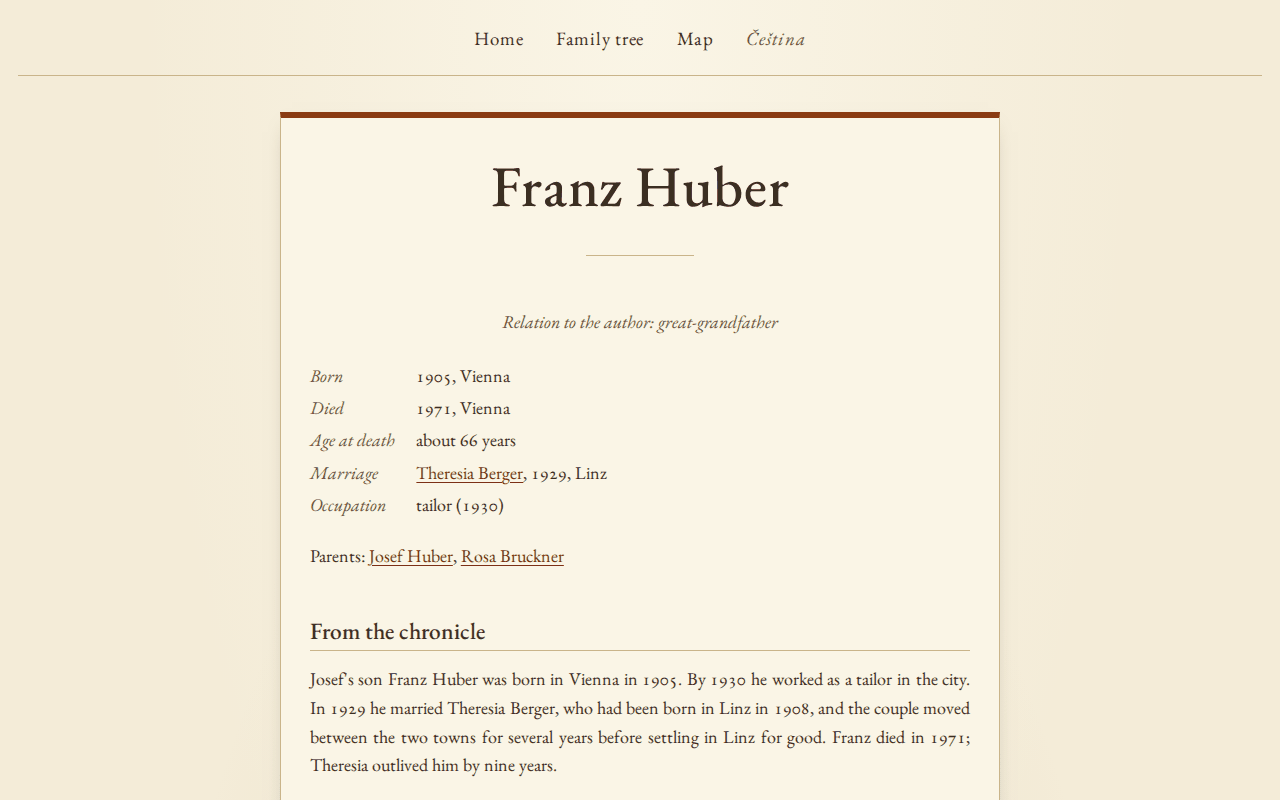
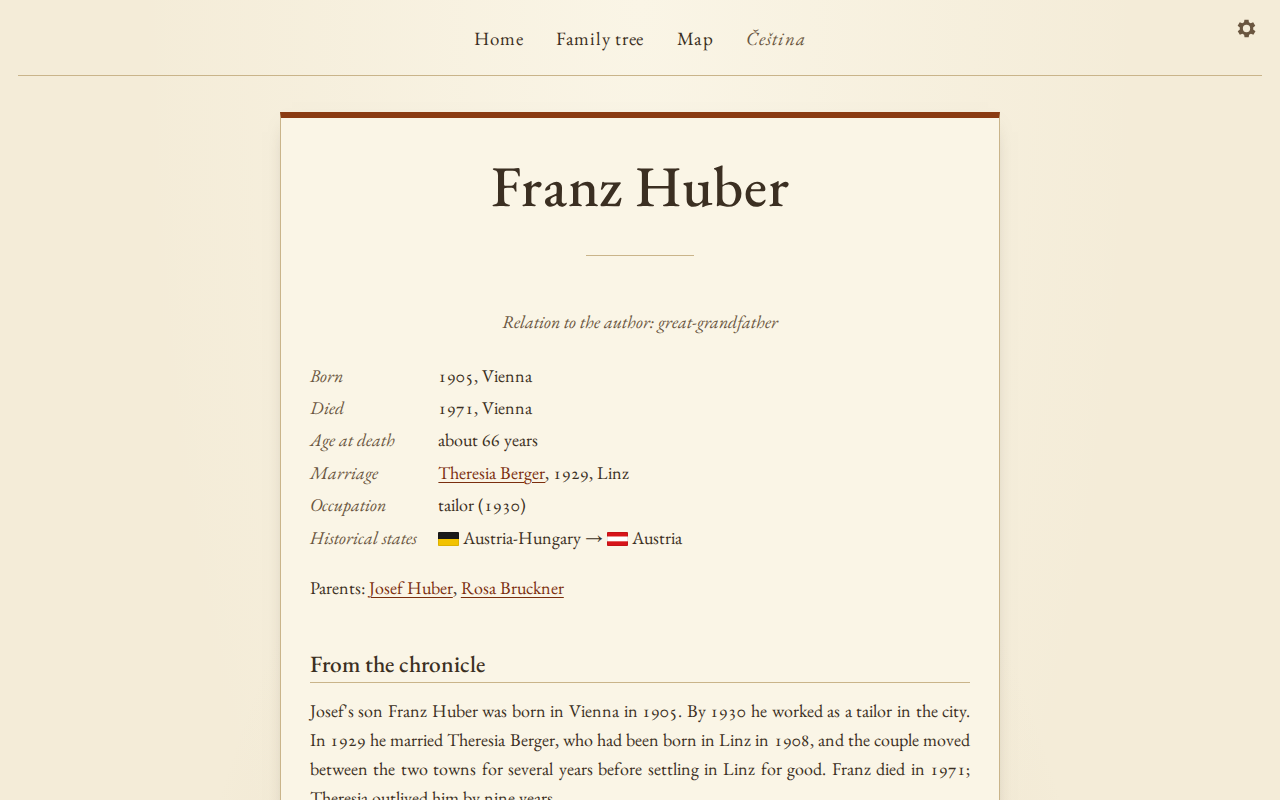
README: themes, settings panel, colour modes, historical states; new screenshots
Regenerated tree, fan, map, chronicle and person screenshots from the example
site and added Night, Atlas, settings panel and fan-by-country screenshots.

Changed region(s): [[0.2188, 0.7812, 0.7812, 1.0], [0.25, 0.4688, 0.5312, 0.75], [0.9688, 0.0312, 1.0, 0.0625]]

diff --git a/README.md b/README.md
@@ -9,6 +9,12 @@ when something leaks.
 The site is plain HTML, JSON and a little JavaScript. There is no server, no database and no
 tracking, so you can host it anywhere that serves files.
 
+Three looks (Chronicle, Night and Atlas) and the colours of the tree are chosen in a settings panel (the
+gear in the header). The tree and the fan chart can colour people by branch, by the country they were
+born in (with small flags of the historical states), by birth period or by whether a document backs
+them; the tree also marks the path from a selected person to the start, labels the generations with
+their birth years and shows a minimap when it does not fit.
+
 | Tree | Fan chart |
 |---|---|
 | ![Family tree](docs/screenshots/tree.png) | ![Ancestor fan chart](docs/screenshots/fan.png) |
@@ -16,6 +22,10 @@ tracking, so you can host it anywhere that serves files.
 | ![Animated migration map](docs/screenshots/map.png) | ![Chronicle page](docs/screenshots/chronicle.png) |
 | **Person page** | **A page of the PDF book** |
 | ![Person page](docs/screenshots/person.png) | ![Book page](docs/screenshots/book-page.png) |
+| **Night theme, tree coloured by birth period** | **Atlas theme, the whole map** |
+| ![Tree in the Night theme](docs/screenshots/tree-night.png) | ![Map in the Atlas theme](docs/screenshots/map-atlas.png) |
+| **Settings panel** | **Fan chart coloured by country of birth, with flags** |
+| ![Settings panel](docs/screenshots/settings.png) | ![Fan chart coloured by country of birth](docs/screenshots/fan-states.png) |
 
 All screenshots come from `example/`, an invented family (the Hubers) that ships with the repo.
 
@@ -74,7 +84,8 @@ Copy `example/` and replace its files:
 |---|---|
 | `family.ged` | your GEDCOM export (UTF-8, UTF-8 or UTF-16 with BOM, or a `1 CHAR ANSI`/`ASCII` file as Windows-1252; CRLF, `CONC`/`CONT`, any ID style, unknown tags are fine). ANSEL files are refused with a message to convert them to UTF-8 first. |
 | `site.json` | the configuration, see below |
-| `places.json` | `{town: {coords: [lat, lon], country: {lang: name}, aliases: [...]}}`; a GEDCOM place not listed here is just left off the map |
+| `places.json` | `{town: {coords: [lat, lon], country: {lang: name}, aliases: [...], region: "..."}}` (`region` is optional, see "Historical states"); a GEDCOM place not listed here is just left off the map |
+| `states.json` | optional historical states and their flags, see "Historical states" |
 | `events.json` | optional hand-written events (moves, war, transports) that the GEDCOM does not hold; each `description` needs a text for every language in `languages` |
 | `documents.json` | optional list of scans and what they prove; may live in a subfolder, its paths are still relative to `site.json` |
 | `basemap.geojson` | optional map background, see "Basemap" |
@@ -87,11 +98,11 @@ All paths resolve against the folder of `site.json`, so you can run the build fr
 | key | meaning |
 |---|---|
 | `root` | GEDCOM id (`I1` or `@I1@`; the same goes for `roots`, `living_extra`, `deceased_extra`, `exclude` and the keys of `living_town`) of the person the site is centred on. The site covers their ancestors, those ancestors' siblings and the siblings' descendants, plus spouses. The root's own descendants stay out. |
-| `gedcom`, `places`, `events`, `documents`, `basemap` | file names (the last three are optional) |
+| `gedcom`, `places`, `events`, `documents`, `basemap`, `states` | file names (the last four are optional) |
 | `base_url` | public URL, used for `sitemap.xml` |
 | `languages`, `default_language` | for example `["en", "cs"]` and `"en"`. The default language lives at the site root, others under `<lang>/`. Texts come from `locales/<lang>.json`; to add a language, add that file with the same keys as `en.json`. |
 | `site_dir` | name of the folder inside the output that holds the site |
-| `branches[]` | `key`, `name{lang: text}`, `color`, `roots[]` (GEDCOM ids where the branch starts; it includes their ancestors) and optional `chronicle` (path to the default-language `.md`). A branch without a chronicle gets no story page, but still appears in the tree and on the map. |
+| `branches[]` | `key`, `name{lang: text}`, `color`, `roots[]` (GEDCOM ids where the branch starts; it includes their ancestors) and optional `chronicle` (path to the default-language `.md`) and `map_chapter`. A branch without a chronicle gets no story page, but still appears in the tree and on the map; with `map_chapter` (the key of another branch) it has no chapter of its own in the film on the map, its stops join that branch's chapter. |
 | `strings{lang: {key: value}}` | overrides any key of `locales/<lang>.json`; nested objects merge key by key. This is where the texts of *your* family go: `intro`, `branch_descriptions{branch key: text}`, `chapters{chronicle slug: {title, short, subtitle}}`. The shipped locales are generic and know no branch. `{root}` and `{root_full}` become the root person's given and full name. |
 | `map_labels` | optional `[{text{lang: text}, lat, lon, kind}]` with `kind` `region` (spaced capitals), `ridge` (small italic capitals) or `town` (a dot and a name). The map has no built-in place names; the camera limits come from your places (bounding box plus a margin), so it fits any part of the world. |
 | `ignore_places` | place names that are too coarse to draw (countries, regions) |
@@ -135,6 +146,45 @@ A passage that appears in the family's private print but never on the web.
 
 Every other comment is dropped from the output. A translation of `chronicles/huber.md` is
 `chronicles/huber.cs.md`; when it is missing the default-language file is used.
+
+## Looks, colours and settings
+
+The gear in the corner of the header opens the settings panel on every page. The choices are kept in the
+browser (`localStorage`), nothing is sent anywhere.
+
+- **Look**: *Chronicle* (the default paper look), *Night* (dark, amber links, a night print of the map) and *Atlas*
+  (a slate bar, rusty accents and a graticule). Print is always Chronicle. The look is set in `<head>` before the
+  page is painted, so there is no flash of the default colours.
+- **Colours of the family tree**, for the tree and the fan chart: *branches* (the colour from `site.json`), *country
+  of birth* (the colour of the flag of the first historical state), *birth period* (older is darker and warmer) and
+  *evidence* (a document backs the person or not). The legend in the tree and the fan chart only says which colours are
+  on; the living always get one neutral colour except in the branch mode. `#colors=era` in the address picks a mode
+  for a shared link.
+- **Tree**: a click on a person marks the path to the start (ancestors in the line, for a sibling through the shared
+  parents, for a partner through the spouse); the rows are tinted by generation and labelled with the span of birth
+  years; a minimap appears on wide screens when the tree does not fit.
+
+### Historical states
+
+An optional `states.json` (name it in `site.json` as `states`) describes which state a place belonged to in which
+years, so that cards, the fan chart and person pages can show small flags and the colour mode "country of birth"
+works. Everything in it is your data; nothing is built in.
+
+```json
+{
+  "flags":   {"empire": {"stripes": ["#1a1a1a", "#f2c200"], "color": "#c69a2e"}},
+  "states":  {"austrian-empire": {"name": {"en": "Austrian Empire", "cs": "Rakouské císařství"}, "flag": "empire"}},
+  "regions": {"Austria": [[0, "austrian-empire"], [1867.45, "austria-hungary"], [1918.87, "austria"]]}
+}
+```
+
+A flag is 1 to 6 stripes (`direction` `horizontal` or `vertical`) with an optional `hoist_triangle`; it is drawn
+as a small SVG. A region is a timeline `[from_year, state]`, each entry valid until the next (a year may carry a
+fraction: `1918.82` is late October 1918). A place belongs to the region named in its `region` entry in
+`places.json`, otherwise to the region named like its country in the default language. For a deceased person
+the build follows the dated events with a place (birth, marriage, death, burial) and works out the states they lived in; a
+marriage with a living partner is left out. For the living there are no states and no flags, because a state at a
+given year would give away their age. `docs/data-format.md` has the details and the checks.
 
 ## Living people
 
@@ -244,12 +294,13 @@ a PDF as private.
 
 ```bash
 .venv/bin/python -I -m unittest discover -s tests -t .     # Python
-node --test tests/*.test.mjs                               # film logic, map engine, string keys, data contract
+node --test tests/*.test.mjs                               # film logic, map engine, colouring, string keys, data contract
 ```
 
 An optional browser smoke test walks every page of a served build in headless Chromium at
 desktop and mobile size and fails on console errors, CSP violations, requests outside the
-origin, HTTP errors >= 400, horizontal overflow on mobile and serious axe-core violations:
+origin, HTTP errors >= 400, horizontal overflow on mobile and serious axe-core violations; it also switches the theme and the colour mode in the settings
+panel and checks that the choice is applied, remembered and shared between the tree and the fan chart:
 
 ```bash
 PLAYWRIGHT_MODULES=/path/to/node_modules node tests/browser.mjs http://127.0.0.1:8000/family/
@@ -282,8 +333,8 @@ The point of this repository is not the charts but the way they stay maintainabl
   agree on it, then implement, then screenshot again at desktop and mobile size. Chart code can be
   perfectly "correct" and still look wrong.
 - **Small focused modules.** One file per concern (`gedcom.py`, `scope.py`, `privacy.py`,
-  `places.py`, `events.py`, `chronicles.py`, ...; `tree.js`, `fan.js`, `film.js`, `map-draw.js`
-  in the browser). Small files fit in a context window and keep a change local.
+  `places.py`, `events.py`, `chronicles.py`, `states.py`, ...; `tree.js`, `fan.js`, `film.js`, `coloring.js`,
+  `map-draw.js` in the browser). Small files fit in a context window and keep a change local.
 - **A written contract between Python and JS.** `docs/data-format.md` lists every key the build
   writes and the scripts read. When the format changes, the doc, the build and the scripts change
   together, and `tests/js-strings.test.mjs` checks that every string key the scripts use exists
